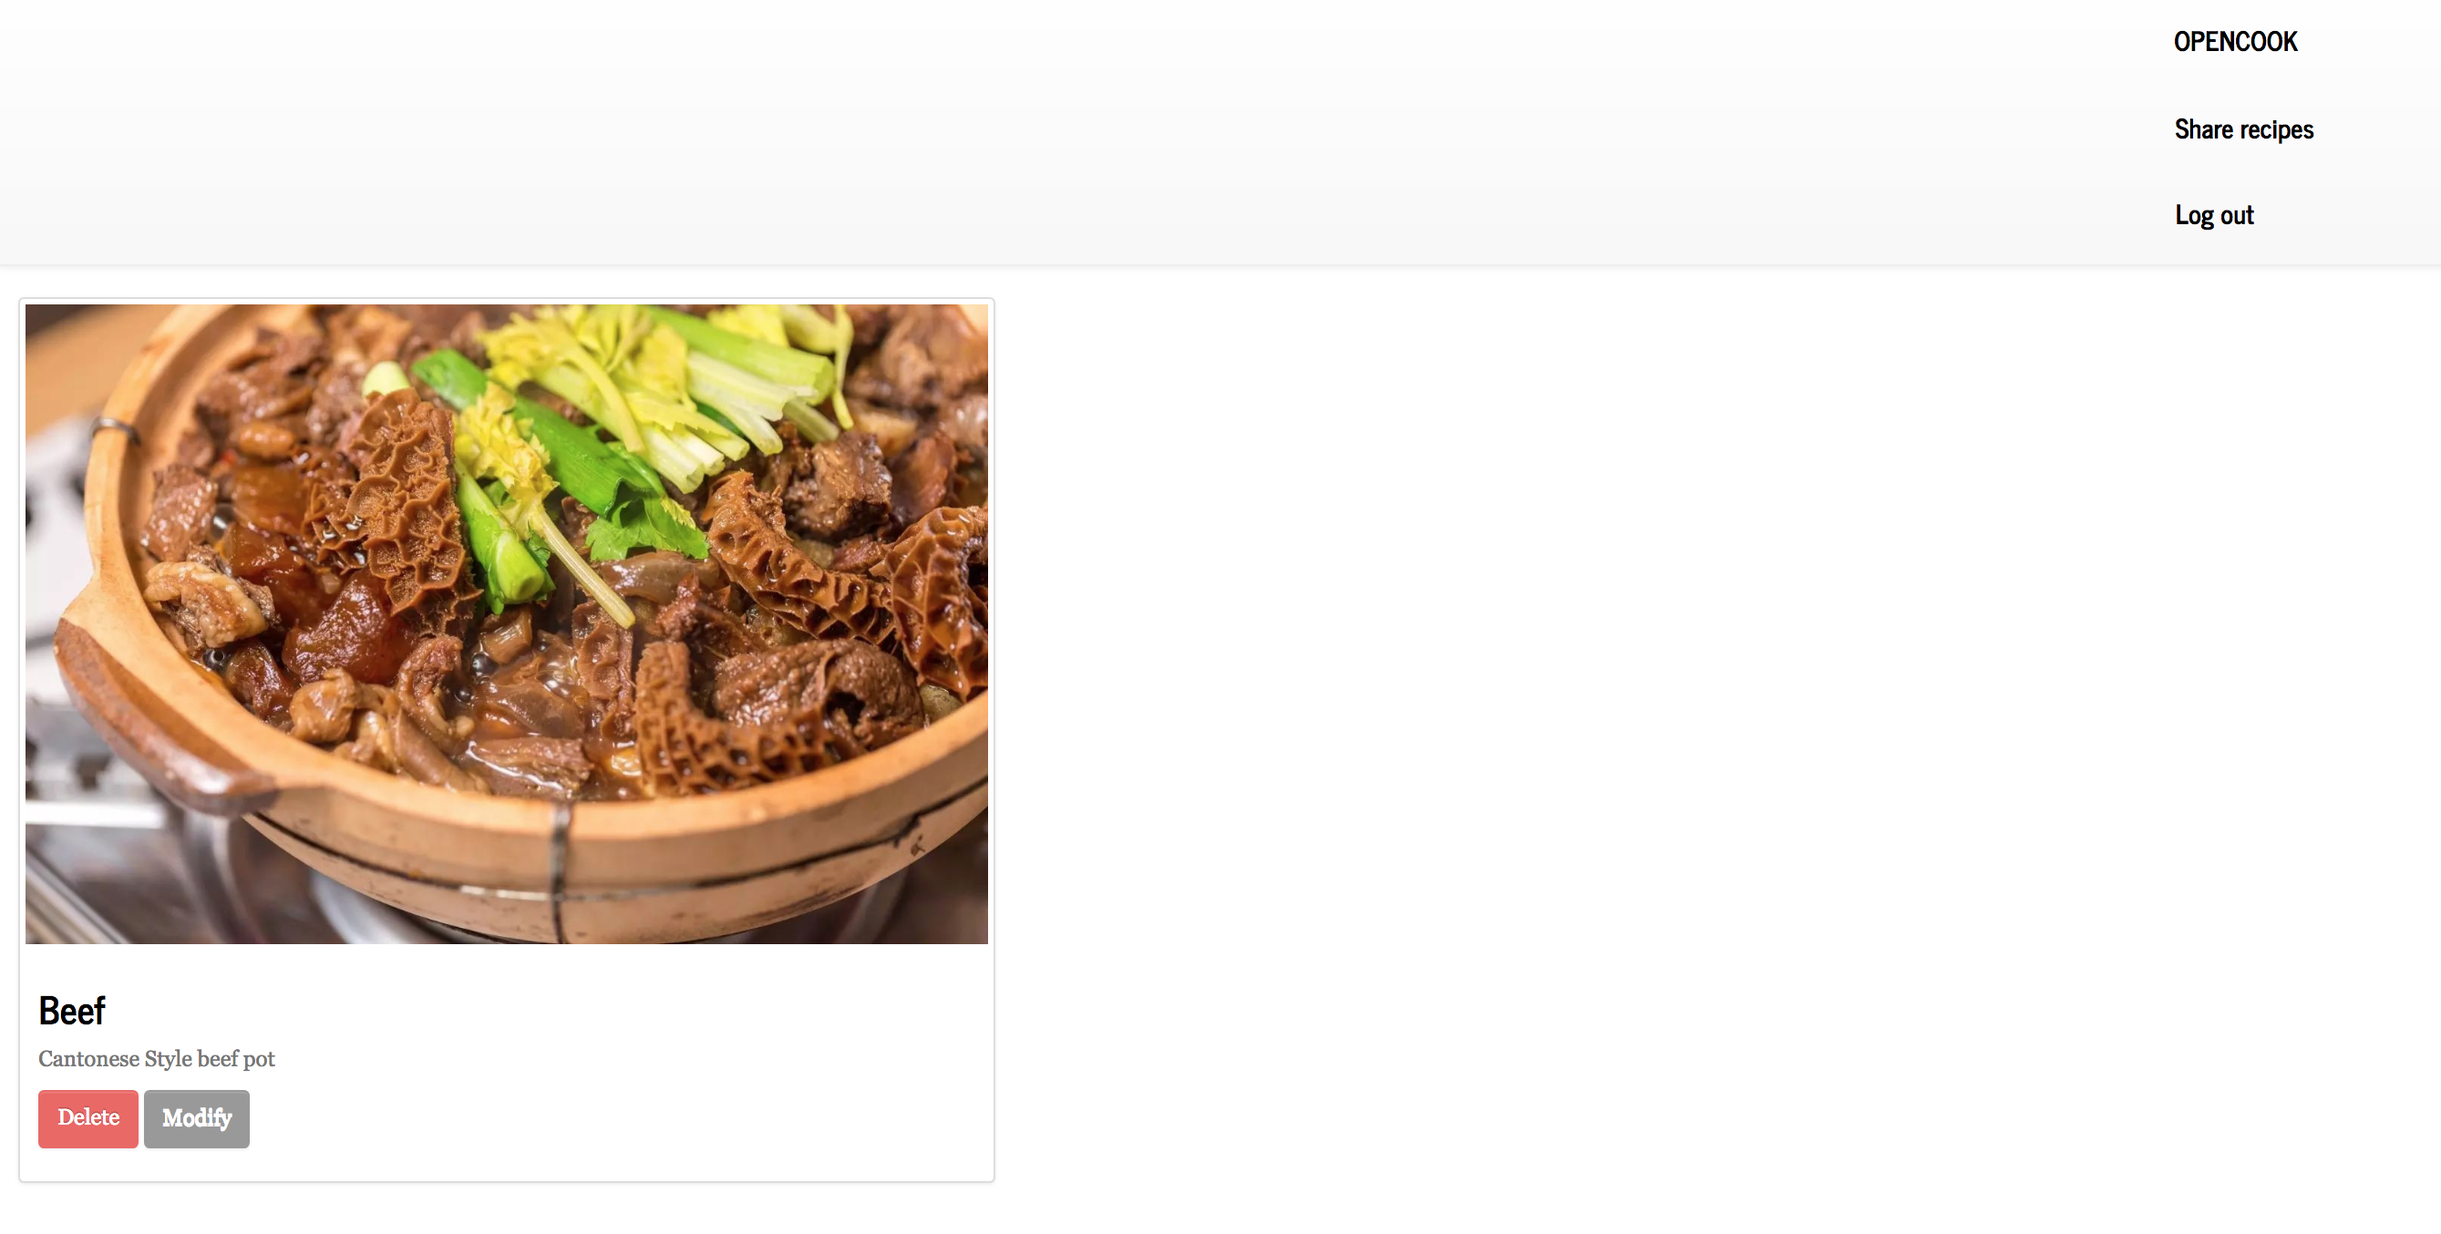
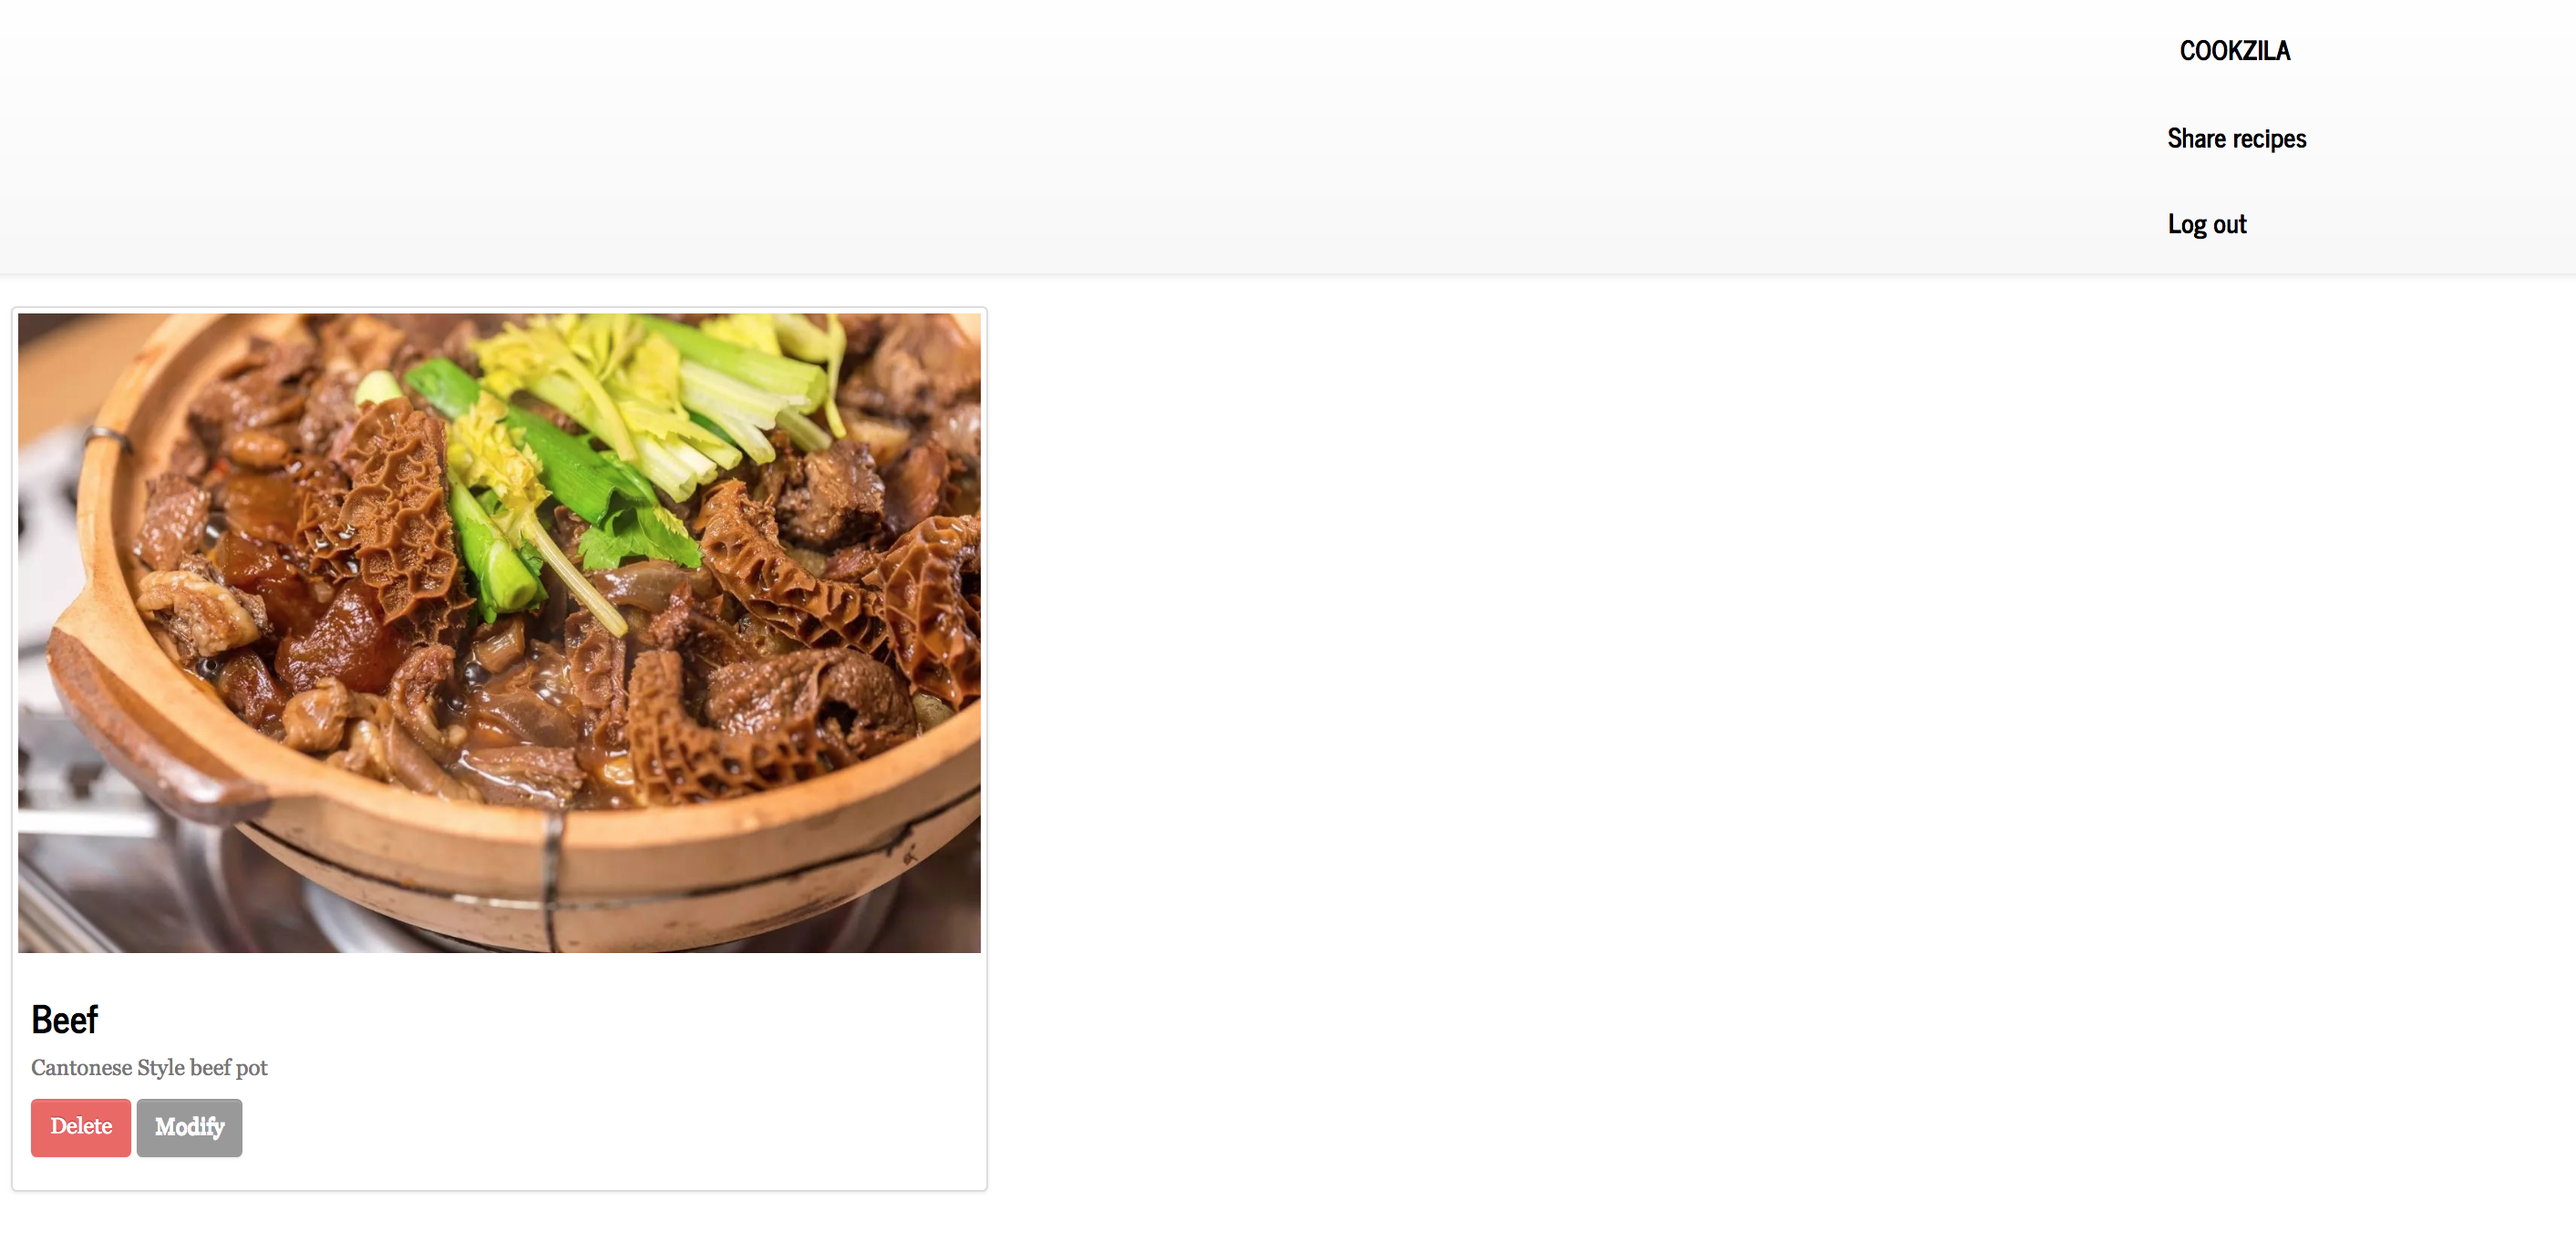
submit

diff --git a/src/common/components/AppBar/AppBar.js b/src/common/components/AppBar/AppBar.js
@@ -11,7 +11,7 @@ const AppBar = ({
   <Navbar>
     <Navbar.Header>
       <Navbar.Brand>
-        <Link to="/">OpenCook</Link>
+        <Link to="/">Cookzila</Link>
       </Navbar.Brand>
       <Navbar.Toggle />
     </Navbar.Header>
